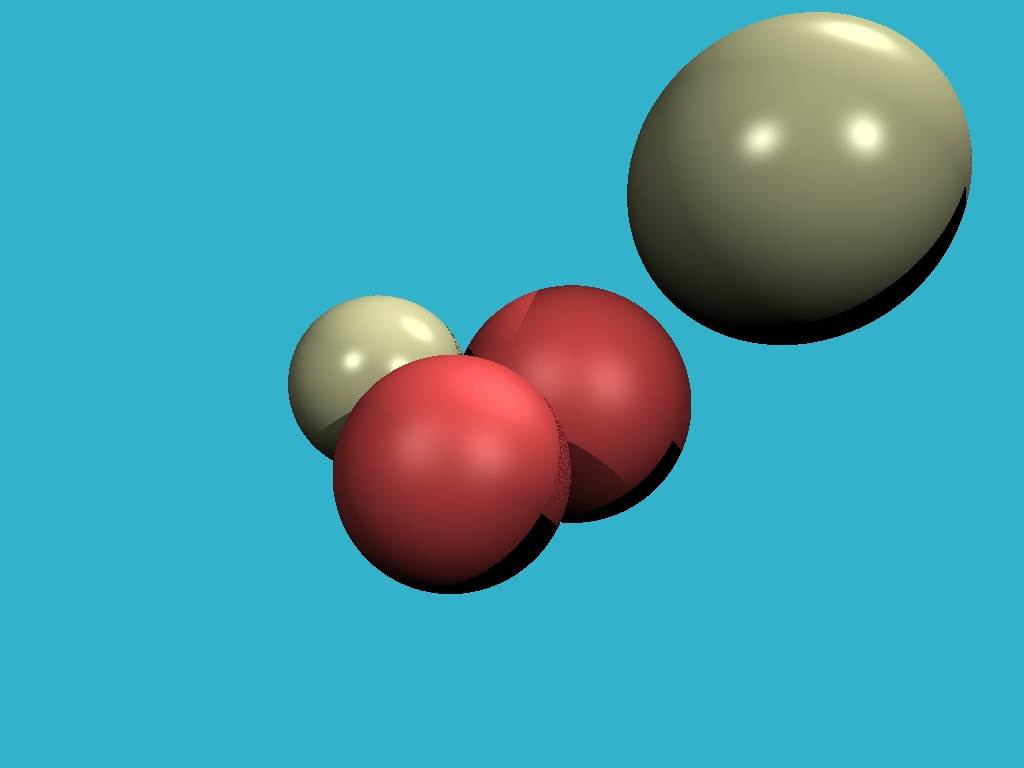
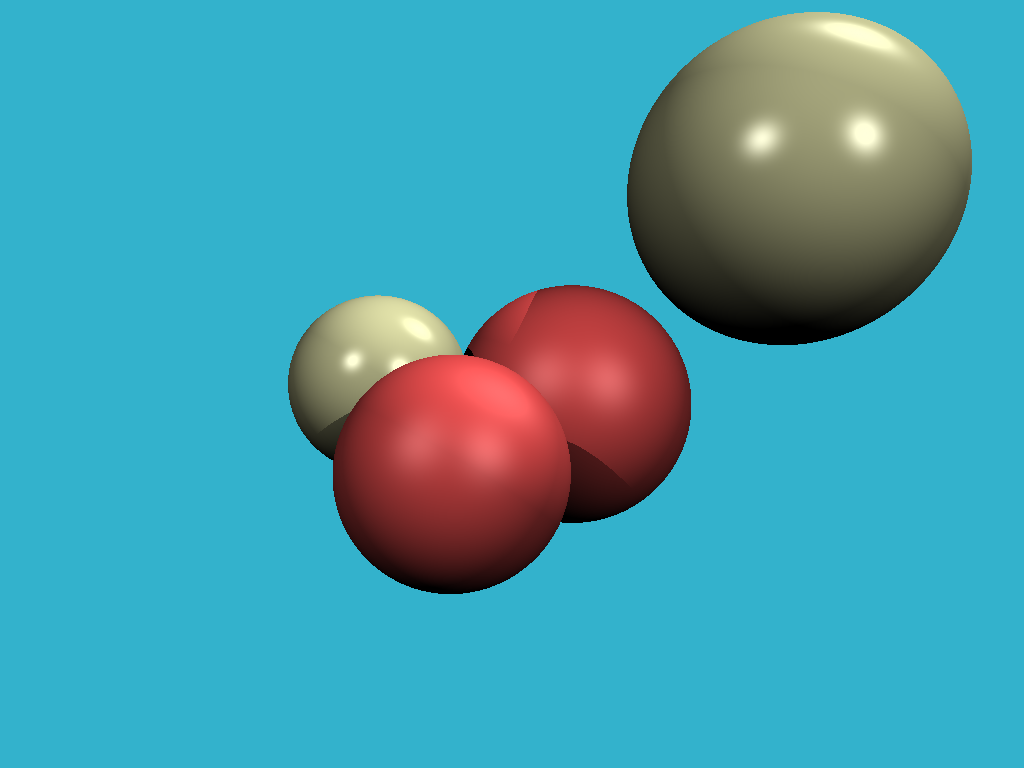
Fix graphical corruption
I did some python wrong. I meant to be copying the point object then
modifying the copy. That's not how things work, so I was modifying point
causing future calculations to be off.

diff --git a/pyray.py b/pyray.py
@@ -106,11 +106,10 @@ def cast_ray(orig, dir, spheres, background, lights):
             light_distance = LA.norm(light_dir)
             light_dir = light_dir/light_distance
 
-            shadow_orig = point
             if np.sum(light_dir*N) < 0:
-                shadow_orig -= N*1e-3
+                shadow_orig = point - N*1e-3
             else:
-                shadow_orig += N*1e-3
+                shadow_orig = point + N*1e-3
             
             (shad_intersect, tmpmat, shadow_N, shadow_pt) = scene_intersect(shadow_orig, light_dir, spheres)
             if shad_intersect:
